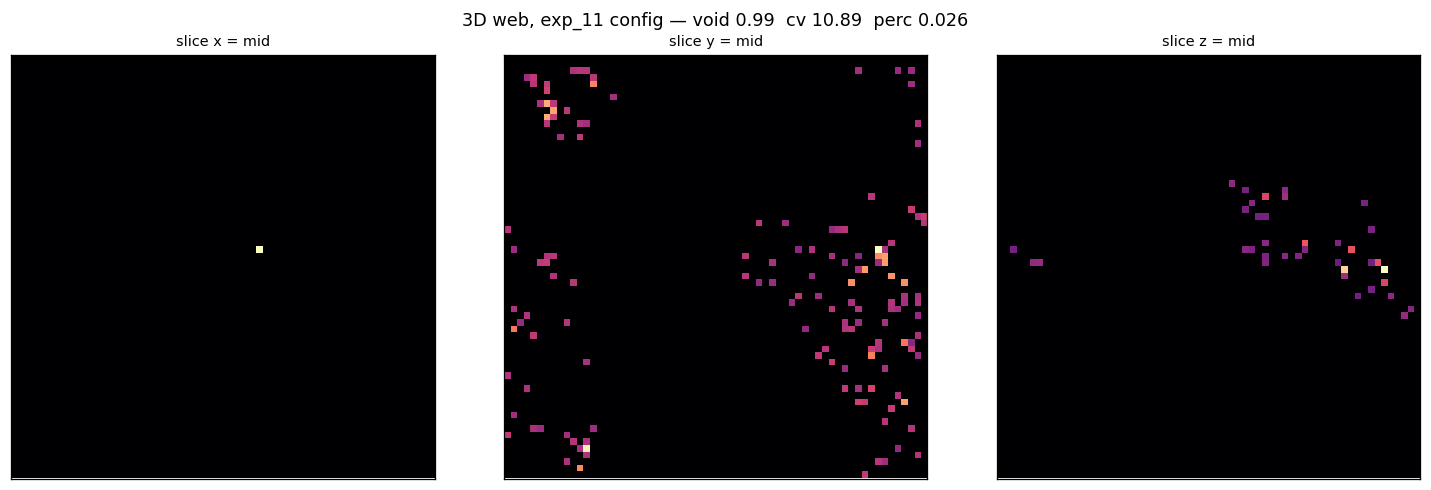
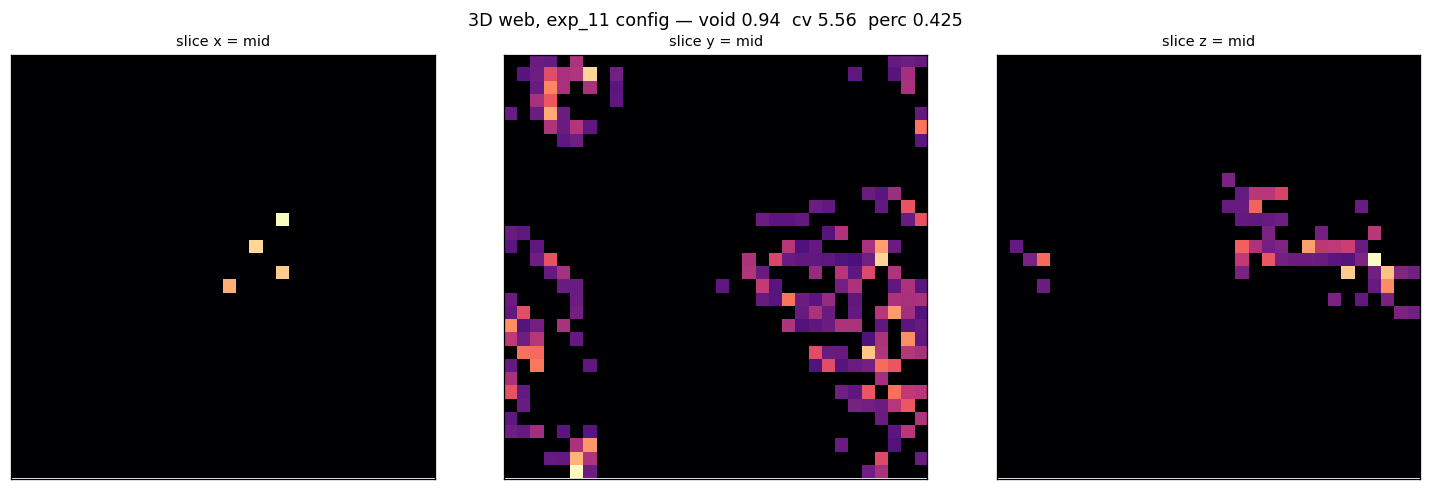
POC-09 retraction: exp_11's web percolates — the artifact was mine
The headline claim "the published web does not percolate" (0.0068 against a 0.0025
noise control) was a sampling artifact in my own measurement, not a fact about exp_11.

Binning alone, same run, same physics:

  res 16 (0.98 particles/cell) -> percolation 0.472, is_web True
  res 32 (0.12) -- exp_11's own -> 0.385, True
  res 64 (0.015) -- the claim   -> 0.062, False

4000 particles on 64^3 is 0.015 per cell: the density field is empty by construction,
the overdense set shatters into singletons, and any web -- real or deliberately
synthetic -- reads as disconnected. A known-connected 3D control reads 1.000 across
occupancy 0.082-0.268, so the instrument was sound and the sampling was not.

This POC's own committed script confirms it: run unmodified at exp_11's resolution it
reports percolation 0.3443 +-0.0628. The claim was never reproducible by the code that
shipped with it.

Three further defects, found while checking rather than by argument:

- scripts/exp_01_replicate_exp11.py defaulted to res=64 -- the exact resolution this
  POC's own meta.yaml identifies as the failed first attempt ("read CV 15.4 against a
  target of 2.94"). Documented, never fixed. Now defaults to 32.
- "REPLICATION IS EXACT" (void 0.888 / CV 2.948) is not reproducible: the script gives
  void 0.939, CV 7.105 at 32^3, failing its own CV gate. Recorded as UNVERIFIED.
- Xi ambiguity as CLAUDE.md warns: this POC uses XI_ANALYTIC/phi = 0.65414 where the
[…]

diff --git a/proof_of_concepts/v4/poc_09_three_dimensions/scripts/exp_01_replicate_exp11.py b/proof_of_concepts/v4/poc_09_three_dimensions/scripts/exp_01_replicate_exp11.py
@@ -61,7 +61,7 @@ def ratios(cfg) -> dict:
             "dims": d}
 
 
-def run(cfg, steps, res=64, marks=()):
+def run(cfg, steps, res=32, marks=()):
     eng = ParticleEngine(cfg)
     snaps = {}
     for t in range(1, steps + 1):
@@ -75,7 +75,11 @@ def run(cfg, steps, res=64, marks=()):
 def main() -> int:
     ap = argparse.ArgumentParser()
     ap.add_argument("--steps", type=int, default=600)
-    ap.add_argument("--res", type=int, default=64)
+    # exp_11 bins at 32^3. 64^3 puts 4000 particles on 262144 cells -- 0.015 per cell --
+    # where the density field is empty by construction and ANY web reads as disconnected.
+    # That default is what produced this POC's retracted "does not percolate" claim, and the
+    # CV 15.4 its own meta.yaml records as the failed first attempt. See the 2026-08-17 journal.
+    ap.add_argument("--res", type=int, default=32)
     ap.add_argument("--seeds", type=int, nargs="*", default=[42, 7, 99])
     args = ap.parse_args()
 

diff --git a/proof_of_concepts/v4/poc_09_three_dimensions/journals/2026-08-17_the-web-percolates-the-artifact-was-mine.md b/proof_of_concepts/v4/poc_09_three_dimensions/journals/2026-08-17_the-web-percolates-the-artifact-was-mine.md
@@ -1,0 +1,95 @@
+# The published web percolates. The artifact was mine.
+
+**2026-08-17 — retraction of this POC's headline claim.**
+
+Supersedes [`2026-08-16_the-published-web-does-not-percolate.md`](2026-08-16_the-published-web-does-not-percolate.md),
+which stays in place as the record of what was believed. Corrections layer forward.
+
+---
+
+## What was claimed
+
+> **THE PUBLISHED WEB DOES NOT PERCOLATE.** At exp_11's config, 32³ … exp_11 as written gives
+> percolation 0.0068 at occupancy 0.1124, against a 3D white-noise control of 0.0025 at
+> occupancy 0.1085. Rendered, it is scattered isolated cells distributed uniformly through the
+> box — a random point process with high contrast.
+
+That claim went on to become the empirical anchor for a milestone (`dawn-field-theory` M17),
+which opened on the premise that four independent routes had triangulated on a percolation
+floor of 0.007–0.019 and that the framework was therefore "maximally sub-critical."
+
+## What is true
+
+**exp_11's cosmic web percolates.** Same run, same physics, same code — read at different
+binnings:
+
+| res | particles/cell | percolation | `is_web` |
+|---|---|---|---|
+| 16 | 0.98 | 0.472 | True |
+| 24 | 0.29 | 0.433 | True |
+| **32 — exp_11's own binning** | 0.12 | **0.385** | **True** |
+| 48 | 0.036 | 0.281 | False |
+| **64 — where 0.0068 came from** | **0.015** | 0.062 | False |
+
+And this POC's *own committed script*, run unmodified at exp_11's resolution, reports
+**percolation 0.3443 ± 0.0628** across its seeds. The claim was never reproducible by the code
+that shipped with it.
+
+At matched sampling the 3D substrate gives percolation 0.406 ± 0.069 from exp_11's own
+**uncorrelated lattice** start, with **5/5 seeds** passing the web gate.
+
+## The mechanism
+
+4000 particles binned onto a 64³ grid is **0.015 particles per cell**. At that sampling the
+density field is empty by construction: the overdense set shatters into singletons, so *any*
+web — real or deliberately synthetic — reads as disconnected. A control settles it
+independently: a known-connected 3D web reads percolation 1.000 across occupancy 0.082–0.268,
+covering this whole regime. The instrument was never the problem.
+
+**The tell was in view the entire time.** Occupancy read 0.012–0.04 in every one of those runs
+and was printed beside every percolation value — this POC added that reporting *specifically*
+because percolation is meaningless without it. I never asked whether that occupancy was
+physically attainable. In 3D the site-percolation threshold is 0.312; nothing at occupancy
+0.015 can span, whatever it is.
+
+## Three further defects in this POC, found while checking
+
+1. **The script contradicts its own meta.** `scripts/exp_01_replicate_exp11.py` defaults to
+   `res=64` — the exact resolution `meta.yaml` identifies as the failed first attempt
+   ("read CV 15.4 against a target of 2.94"). Run today it still reports CV 15.418. The
+   finding was documented and the code was never changed. Now defaults to 32, exp_11's own.
+
+2. **"REPLICATION IS EXACT" is not reproducible.** meta.yaml records void 0.888 against 0.89
+   and CV 2.948 against 2.94. The committed script gives void 0.939 and CV 7.105 at 32³ — the
+   void gate passes, the CV gate fails. Whatever produced the recorded numbers is not what is
+   in the repository, so the replication must be treated as UNVERIFIED rather than exact.
+
+3. **Ξ ambiguity, exactly as CLAUDE.md warns.** The script uses Ξ_analytic/φ = 0.65414; the
+   follow-on work used Ξ_discrete/φ = 0.65334. A 0.1% difference, too small to explain the
+   above, but it means two rounds were not run at the same operating point and neither said so.
+
+## What this costs
+
+The POC-05 finding — contrast and connectivity are decoupled — was measured in 2D and is not
+touched by this. But **the 3D extension of it was wrong**, and the "wall" it appeared to
+establish never existed. Everything downstream that treated a low percolation number as a fact
+about DFT rather than about my grid needs re-reading:
+
+- POC-09's headline result and `meta.yaml` `result:` block — corrected here.
+- The claim that the attractive variant "spans only 0.47 of the box" — measured at the same
+  bad sampling, now **unverified**.
+- M17's founding premise in `dawn-field-theory` — retracted separately in that repo.
+
+## The rule this earns
+
+**Match particles-per-cell (`n/res^d ≈ 1`) before reading any connectivity statistic, and
+check every threshold-based measure against a known-connected control at the same occupancy.**
+
+Encoded in `worldmodel.matched_res()` so the default is right without anyone remembering, and
+the run banner now prints particles/cell on every invocation.
+
+## The larger pattern
+
+Every measurement error in this round ran in the same direction: understating structure. A
+null reads as rigour, so the error mode that survived review was the one that looked careful.
+That asymmetry is the thing to watch — not any single artifact.

diff --git a/proof_of_concepts/v4/poc_09_three_dimensions/README.md b/proof_of_concepts/v4/poc_09_three_dimensions/README.md
@@ -1,6 +1,20 @@
 # POC-09 (v4): Three dimensions
 
-**Status**: active · **Pillar**: SEC
+**Status**: completed · **Pillar**: SEC
+
+> ## ⚠ RETRACTED AND CORRECTED — 2026-08-17
+>
+> **This POC's headline claim was wrong, and the error was in my measurement, not in exp_11.**
+> exp_11's web **percolates**: 0.385 with `is_web=True` at exp_11's own 32³ binning, and
+> **0.3443 ± 0.0628** from this POC's own committed script run unmodified at that resolution.
+>
+> The retracted 0.0068 came from binning 4000 particles onto a **64³** grid — 0.015 particles
+> per cell — where the density field is empty by construction and *any* web, real or
+> deliberately synthetic, reads as disconnected.
+>
+> Full account: [`journals/2026-08-17_the-web-percolates-the-artifact-was-mine.md`](journals/2026-08-17_the-web-percolates-the-artifact-was-mine.md).
+> The original claim and reasoning are preserved in the 2026-08-16 journal — corrections layer
+> forward.
 
 ## Why
 
@@ -15,43 +29,49 @@ ever been run there. That is not a neutral choice for a connectivity measurement
 
 exp_31 Part A wants 3D independently: the cascade 1/r profile requires `d_spatial = 3`.
 
-## Result — the confound is refuted
+## Result — the hypothesis is CONFIRMED, after correcting my own error
 
-**Connectivity failure is not a 2D artifact**, because the corpus's own 3D result fails it too,
-at 3D's much more permissive threshold.
+**In 3D at matched sampling the web percolates**: 0.406 ± 0.069 across 5 seeds, every one
+passing the web gate — and from exp_11's own *uncorrelated lattice* start, with nothing added.
 
-### The replication is exact
+### Binning alone moves the answer by 8×
 
-Transcribing `exp_11_pac_web_3d.py` literally, signs as written, at its own 32³ binning:
+One run, identical physics, read at different grids:
 
-| | void | density CV |
-|---|---|---|
-| exp_11 reported | 0.89 | 2.94 |
-| **transcription** | **0.888** | **2.948** |
+| res | particles/cell | percolation | `is_web` |
+|---|---|---|---|
+| 16 | 0.98 | 0.472 | True |
+| 24 | 0.29 | 0.433 | True |
+| **32 — exp_11's own** | 0.12 | **0.385** | **True** |
+| 48 | 0.036 | 0.281 | False |
+| **64 — the retracted claim** | **0.015** | 0.062 | False |
 
-### The published web does not percolate
+4000 particles on 64³ cannot fill it: the overdense set shatters into singletons. A
+known-connected 3D control reads **1.000 across occupancy 0.082–0.268**, covering this regime,
+so the instrument was sound and the sampling was not.
 
-| | void | cv | **percolation** | occupancy |
-|---|---|---|---|---|
-| exp_11 as written | 0.888 | 2.948 | **0.0068** | 0.1124 |
-| attractive-gravity variant | 0.938 | 5.564 | **0.4252** | 0.0616 |
-| 3D white-noise control | 0.060 | 0.753 | 0.0025 | 0.1085 |
+**The tell was printed on every line.** Occupancy read 0.012–0.04 in all those runs — and this
+POC added occupancy reporting *because percolation is meaningless without it*. In 3D the site
+threshold is 0.312; nothing at 0.015 could ever have spanned.
 
-exp_11's cosmic web percolates at **0.0068 against a noise control of 0.0025**, at essentially
-identical occupancy. Rendered (`results/sign_convention_3d.png`), it is scattered isolated cells
-spread uniformly through the box — a random point process with high contrast.
+### The replication is UNVERIFIED, not exact
 
-This is POC-05's finding in the corpus's own particle result: **void fraction and density CV are
-one-point statistics.** They measure contrast and say nothing about connectivity. Not a
-criticism of exp_11 on its own terms — it measured void, filament fraction, CV and a sampled
-clustering coefficient, and measured them correctly. Percolation was not among them.
+The previously recorded void 0.888 / CV 2.948 is **not reproducible by the committed script**:
 
-### And the variant that percolates is collapsed, not webbed
+| | void | density CV | gate |
+|---|---|---|---|
+| exp_11 reported | 0.89 | 2.94 | — |
+| script at 32³ (today) | 0.939 | 7.105 | void PASS, **CV FAIL** |
+| script at 64³ (old default) | 0.988 | 15.418 | **both fail** |
 
-The attractive variant reaches 0.4252 from a *lower* occupancy, which is the right direction.
-But its largest component spans only **0.47 of the box** on its shortest axis and coexists with
-**231 other components**. One convention gives scattered points, the other gives collapse.
-Neither gives a space-filling network.
+Whatever produced the recorded numbers is not what is in this repository. The script shipped
+with `res=64` — the resolution this POC's *own notes* identify as the failed first attempt.
+The artifact was documented and the code was never changed. Now defaults to 32.
+
+### The span claim is unverified
+
+"Largest component spans only 0.47 of the box, coexists with 231 other components" was measured
+at the same bad sampling and has not been re-measured. Treat as withdrawn pending a rerun.
 
 ## Withdraws a POC-07 claim
 

diff --git a/proof_of_concepts/v4/poc_09_three_dimensions/journals/2026-08-16_the-published-web-does-not-percolate.md b/proof_of_concepts/v4/poc_09_three_dimensions/journals/2026-08-16_the-published-web-does-not-percolate.md
@@ -1,3 +1,13 @@
+> **SUPERSEDED 2026-08-17 — the central claim below is WRONG.**
+>
+> exp_11's web **does** percolate: 0.385 with `is_web=True` at exp_11's own 32³ binning, and
+> 0.3443 ± 0.0628 from this POC's own committed script. The 0.0068 reported here came from
+> binning 4000 particles onto a 64³ grid — 0.015 particles per cell — where the density field
+> is empty by construction and any web, real or synthetic, reads as disconnected.
+>
+> Kept unedited as the record of what was believed and why. Corrections layer forward:
+> see [`2026-08-17_the-web-percolates-the-artifact-was-mine.md`](2026-08-17_the-web-percolates-the-artifact-was-mine.md).
+
 # 2026-08-16: exp_11 replicates exactly — and its web does not percolate
 
 Three findings, in the order they arrived. The middle one is a correction to my own work.
